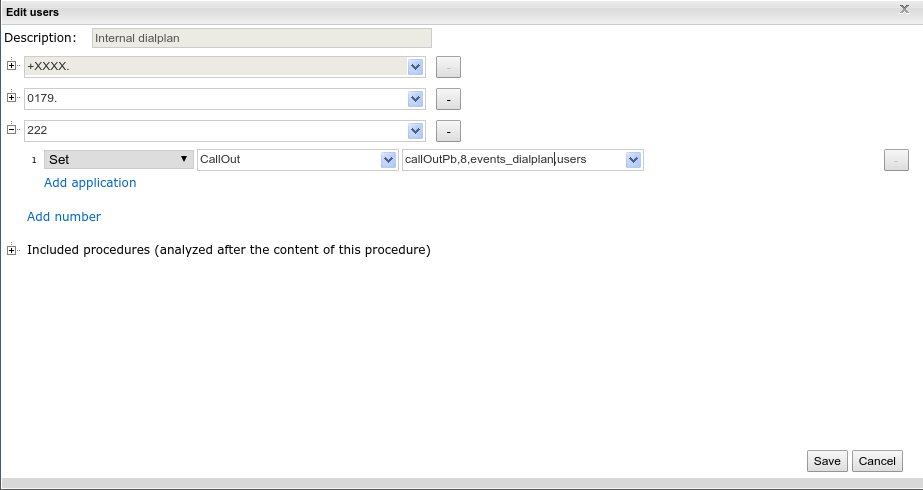
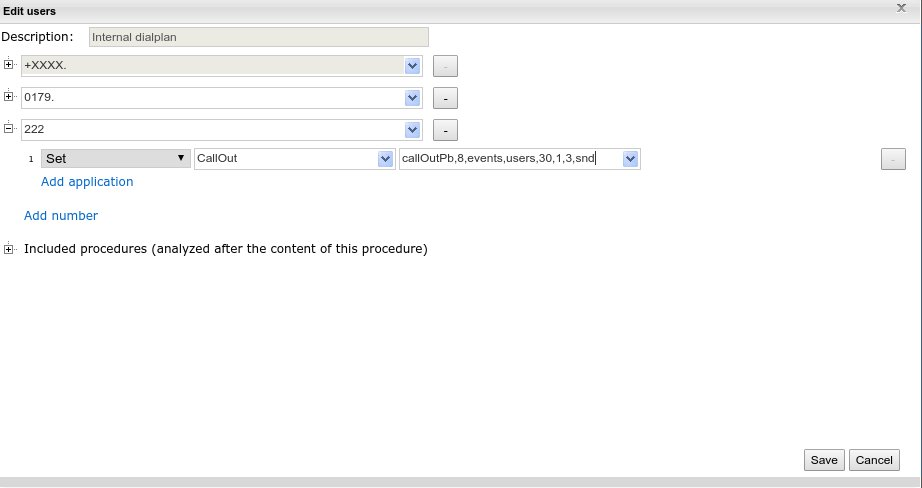
Added parameters for confirmation codes: <confirmCode> and <refuseCode>. Added support <sound dir> dialplan parameter where to get sound files from, no param = current behavior, dir set = get files in that directory Added the ability to "stop alert call" (call to initial code and enter "stop pin"). 

diff --git a/README.md b/README.md
@@ -46,7 +46,7 @@ example:
 
 In this example we will use 222 as Alert Code number:
 
-*222 Application: Set CallOut, Parameters:callOutPb,8,events_dialplan,users*
+*222 Application: Set CallOut, Parameters:phonebook,8,events,users,30,1,3,snd*
 
 parameters usage:
 
@@ -54,6 +54,10 @@ parameters usage:
 * 8 – the number of contemporary alert calls which should be generated
 * the dial plan where the pin inserted should be looked up
 * the dial plan where the outgoing calls should be generated
+* 30 - retry count in case of channel unavailable
+* 1 - confirm code
+* 3 - rfuse code
+* snd - directory where to get sound files from
 
 ![Alt text](images/Add new Alert Code Feature.jpeg?raw=true "Create new code")
 
